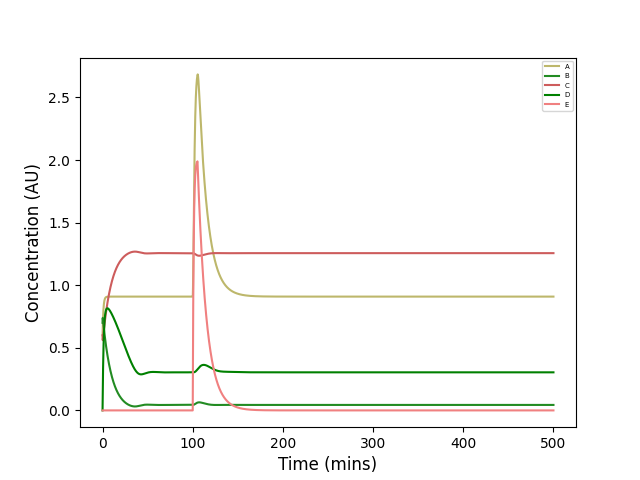
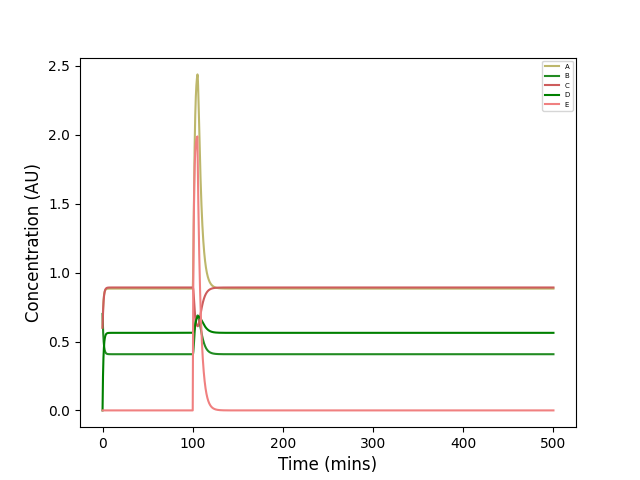
qualitative analysis of fitting process successful

diff --git a/src/run.py b/src/run.py
@@ -14,8 +14,8 @@ if __name__ == "__main__":
     n = Network("network_test", rates, substrates, interactions)
 
     time = np.linspace(0,500,num=10001)
-    # y = n.y(time)
-    # n.graph(y, time)
-    arguments = json.load(open("/home/rsethi/school_rsh/PKH/systems_modelling_toolkit/data/fitting_parameters.json"))
-    data = json.load(open("/home/rsethi/school_rsh/PKH/systems_modelling_toolkit/data/fit_data.json"))
-    n.fit(time, data, arguments, number=10, mlp=4)
+    y = n.y(time)
+    n.graph(y, time)
+    # arguments = json.load(open("/home/rsethi/school_rsh/PKH/systems_modelling_toolkit/data/fitting_parameters.json"))
+    # data = json.load(open("/home/rsethi/school_rsh/PKH/systems_modelling_toolkit/data/fit_data.json"))
+    # n.fit(time, data, arguments, number=10, mlp=4)

diff --git a/src/network.py b/src/network.py
@@ -194,13 +194,13 @@ class Network:
                         count += 1
                 self.reset_stimuli()
             return float(cost)/count
-        pdb.set_trace()
         fitting_model = ga(function = loss,
                            dimension = len(bounds),
                            variable_type = bound_types,
                            variable_boundaries = bounds,
                            algorithm_parameters = arguments)
         fitting_model.run(set_function=ga.set_function_multiprocess(loss, n_jobs=mlp))
+        print(rates_to_fit)
 
     def apply_stimuli(self, stimuli, amts, time_ranges):
         for stimulus, amt, time_range in zip(stimuli, amts, time_ranges):
